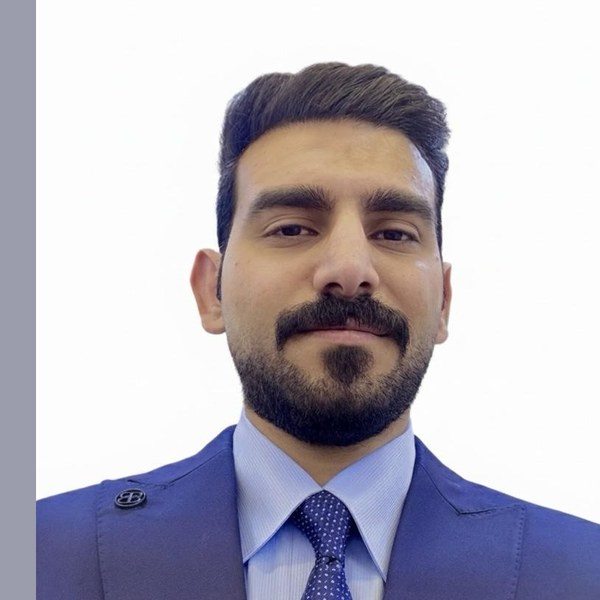
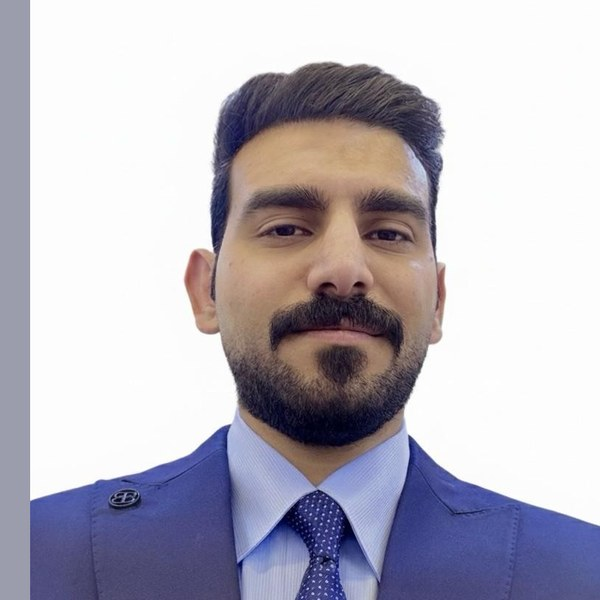
tweak: face crop FACE_H +0.04

diff --git a/scripts/crop_photos.py b/scripts/crop_photos.py
@@ -23,7 +23,7 @@ MODEL = os.path.join(ROOT, "scripts", "models", "face_yunet.onnx")
 SIZE = 600        # output avatar size (px, square)
 CROP_MULT = 2.0   # crop side = 2.0x the detected face height (head + shoulders)
 FACE_V = 0.44     # face centre sits at 44% of the crop height
-FACE_H = 0.05     # face centre sits at (50% + FACE_H) horizontally (+ = right)
+FACE_H = 0.04     # face centre sits at (50% + FACE_H) horizontally (+ = right)
 
 
 def bg_color(im):
